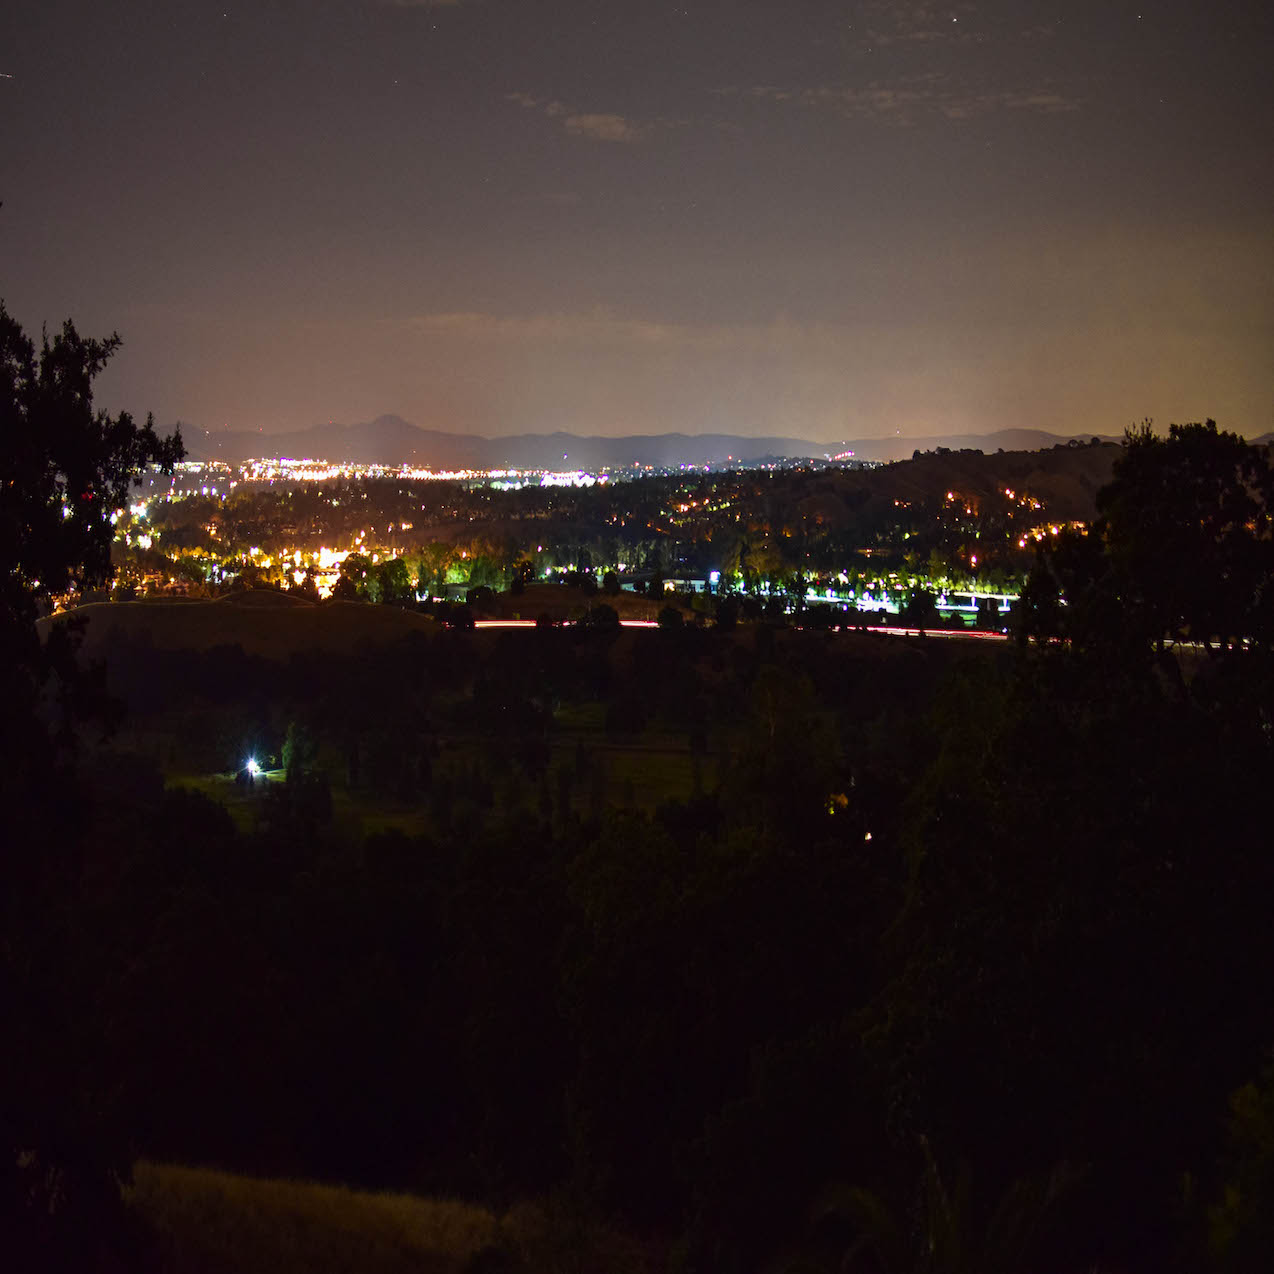
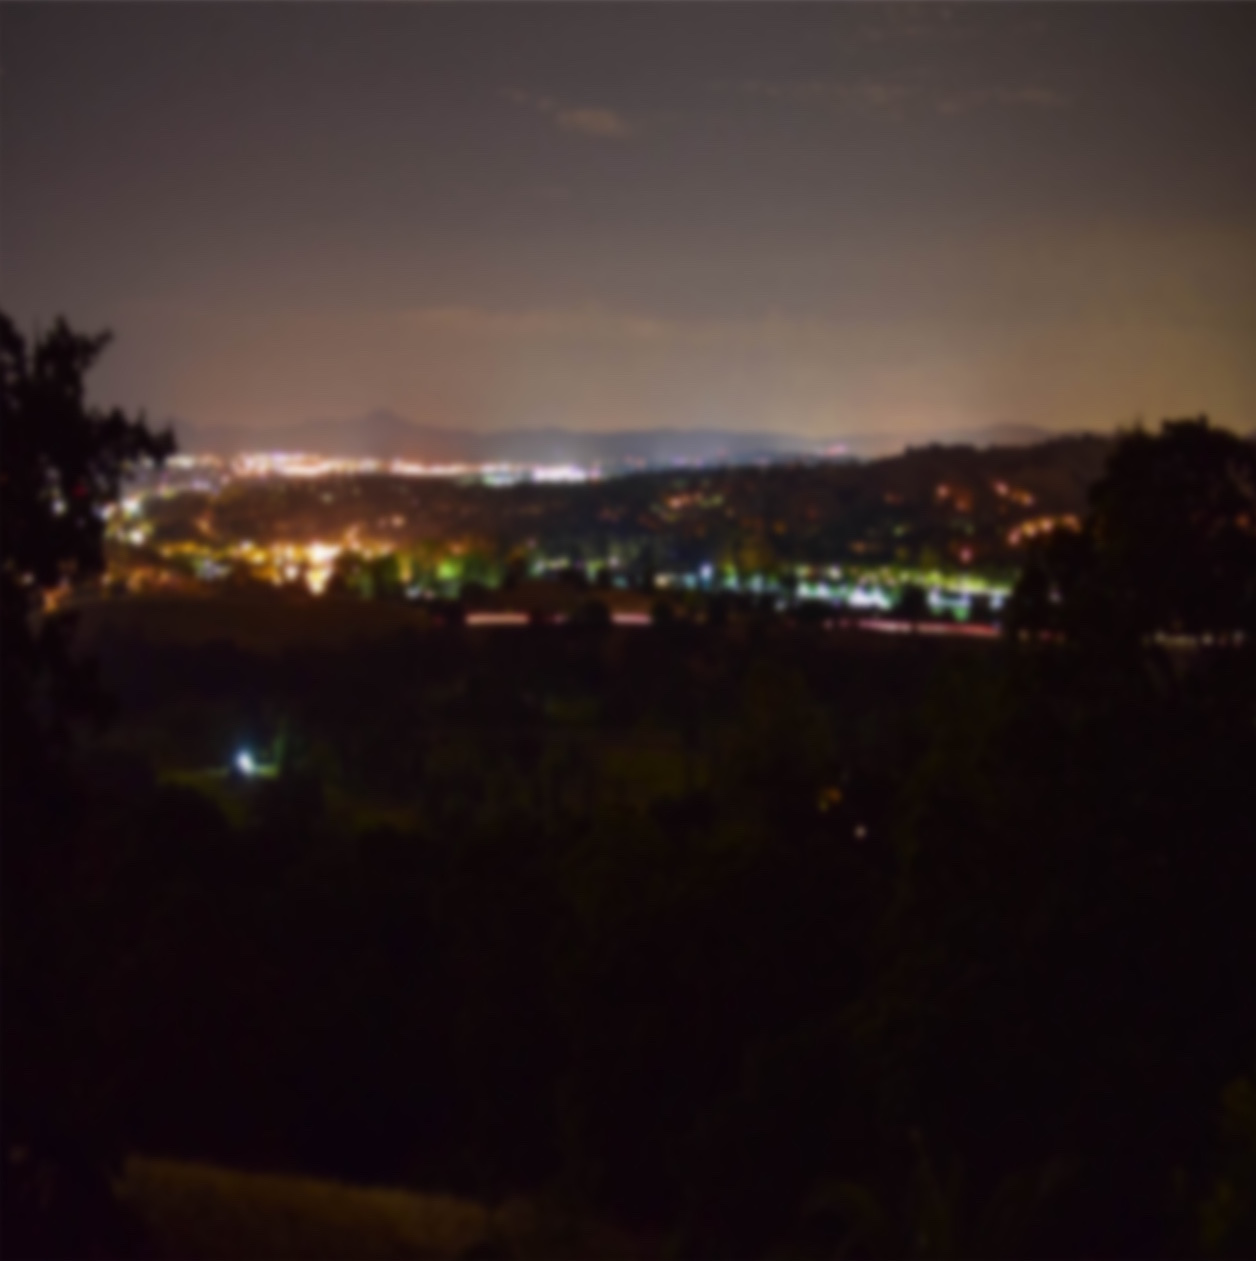
Update background image

diff --git a/assets/css/main.css b/assets/css/main.css
@@ -2465,7 +2465,7 @@
 	#header {
 		background-color: #1f1815;
 		background-attachment: scroll,								fixed;
-		background-image: url("images/overlay.png"), url("../../images/seaclouds.jpg");
+		background-image: url("images/overlay.png"), url("../../images/pleasanton.jpg");
 		background-position: top left,							top left;
 		background-repeat: repeat,								no-repeat;
 		background-size: auto,								auto 100%;
@@ -2965,7 +2965,7 @@
 			#footer {
 				background-attachment: scroll;
 				background-color: #1f1815;
-				background-image: url("images/overlay.png"), url("../../images/seaclouds.jpg");
+				background-image: url("images/overlay.png"), url("../../images/pleasanton.jpg");
 				background-position: top left,						bottom center;
 				background-repeat: repeat,							no-repeat;
 				background-size: auto,							cover;
